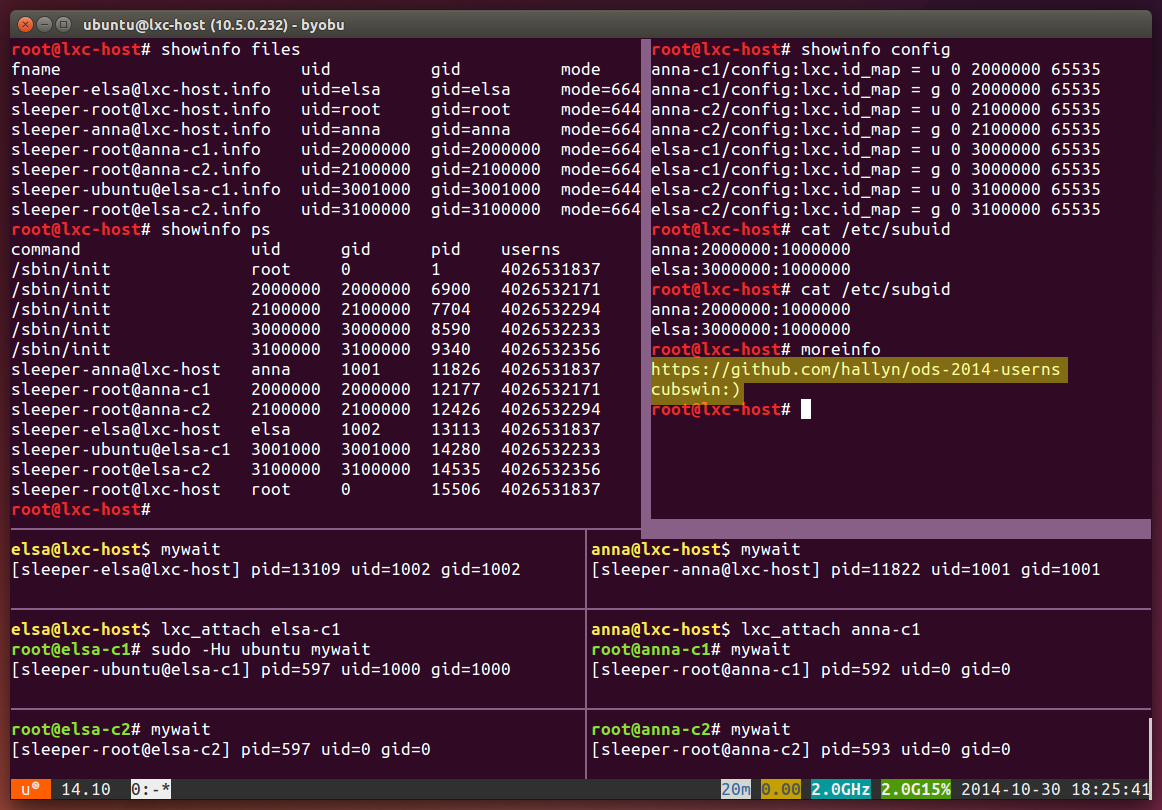
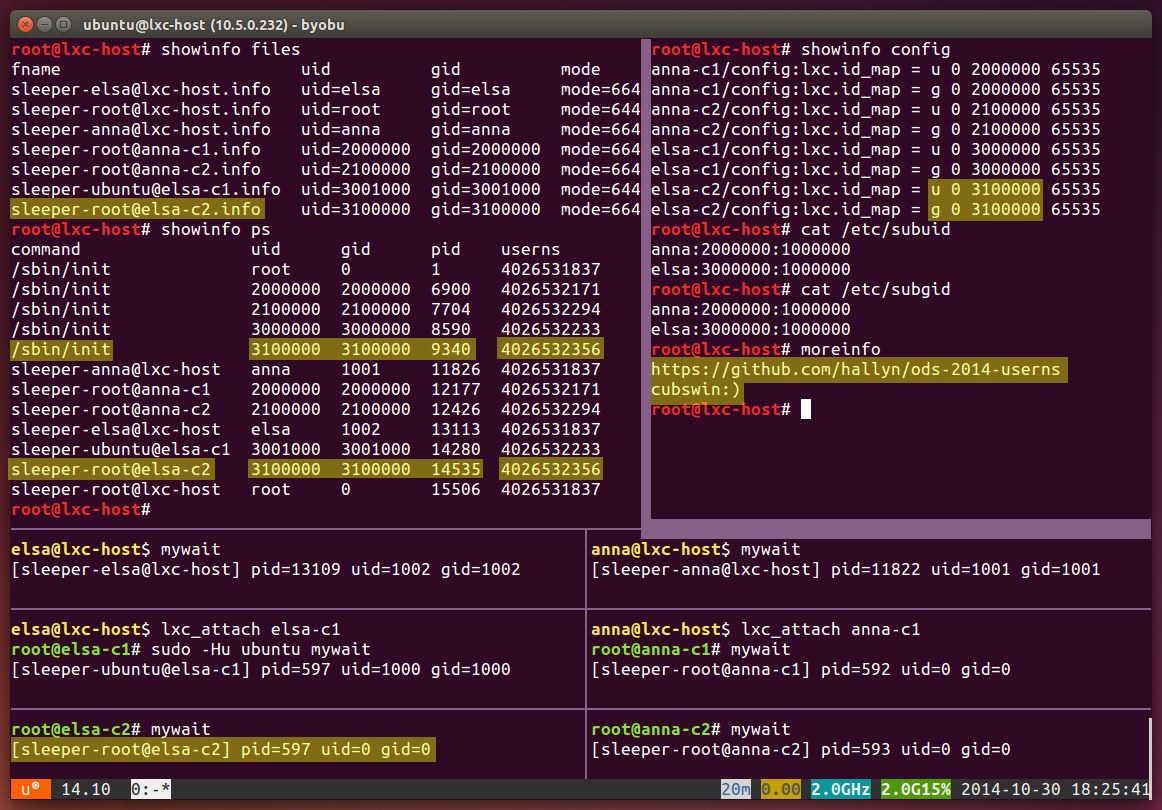
slides with pictures

diff --git a/user_namespaces.tex b/user_namespaces.tex
@@ -81,6 +81,7 @@
 
 \usepackage{graphicx} % Allows including images
 \usepackage{booktabs} % Allows the use of \toprule, \midrule and \bottomrule in tables
+\graphicspath{ {images/} }
 
 %----------------------------------------------------------------------------------------
 %	TITLE PAGE
@@ -175,6 +176,68 @@ Canonical, Inc \\ % Your institution for the title page
 	\item Answer: "Wait for user namespaces"
 	\end{enumerate}
 \end{enumerate}
+\end{frame}
+
+\section{Graphical Demo}
+\begin{frame}
+Demo Time [sort of].
+\begin{enumerate}
+   \item Ubuntu 14.10 instance with hostname 'lxc-host'.
+   \item 2 users (elsa, anna) are each configured to run lxc unprivileged.
+   \item 'showinfo': simple shell filter to 'find' or 'ps' or 'grep'.
+   \item 'mywait': Very Exciting. Run it, it prints its pid, uid, gid.  Then creates a file named 'sleeper-user@hostname' and sleeps forever.
+\end{enumerate}
+\end{frame}
+
+\begin{frame}
+Host Processes / Users.
+\includegraphics[width=\textwidth]{screen-host-info.png}
+%Note:
+%  - Multiuser system /sbin/init has pid1.
+%  - the userns output of 'ps' shows each of the highlighted processes
+%    are in the same user namespace.
+%  - elsa and anna are both running 'mywait' as unpriviledged users
+%    in the top level user namespace.
+\end{frame}
+
+\begin{frame}
+LXC Containers and Configuration
+\includegraphics[width=\textwidth]{screen-lxc-config.png}
+%  - anna and elsa are given 1 million "subuid" and "subgid" each
+%  - fields there say: <user>:start:count
+%  - typical linux system allocates 'nobody' to 65535. means without
+%    customization, easist solution is to just give 65535
+%    thats less than ideal, though as you can only have 65535 of those.
+%  - lxc config allows you to map all or a portion of those to a container
+\end{frame}
+
+\begin{frame}
+Anna's containers: \textbf{anna-c1}, anna-c2
+\includegraphics[width=\textwidth]{screen-anna-c1.png}
+%  - inside container anna-c1, '/sbin/init' believes itself to be
+%    pid 1, but from outside it is 6900.
+%  - note uid/gid of /sbin/init and 'sleeper-anna-c1' are 2000000
+\end{frame}
+
+\begin{frame}
+Anna's containers: anna-c1, \textbf{anna-c2}
+\includegraphics[width=\textwidth]{screen-anna-c2.png}
+%Note:
+%  - anna's second container is given a different id_map range.
+%    2,100,000 rather than 2,000,000
+%  - container escape from anna-c2 leaves user 2100000, unable to read files
+%    owned by anna (1001) or even anna-c1. (Unless they're world readable).
+\end{frame}
+
+\begin{frame}
+Elsa's Containers: \textbf{elsa-c1}, elsa-c2
+\includegraphics[width=\textwidth]{screen-elsa-c1.png}
+\end{frame}
+
+\begin{frame}
+Elsa's Containers: elsa-c1, \textbf{elsa-c2}
+\includegraphics[width=\textwidth]{screen-elsa-c2.png}
+\textit{Note: next year is our year.}
 \end{frame}
 
 \begin{frame}[fragile]
